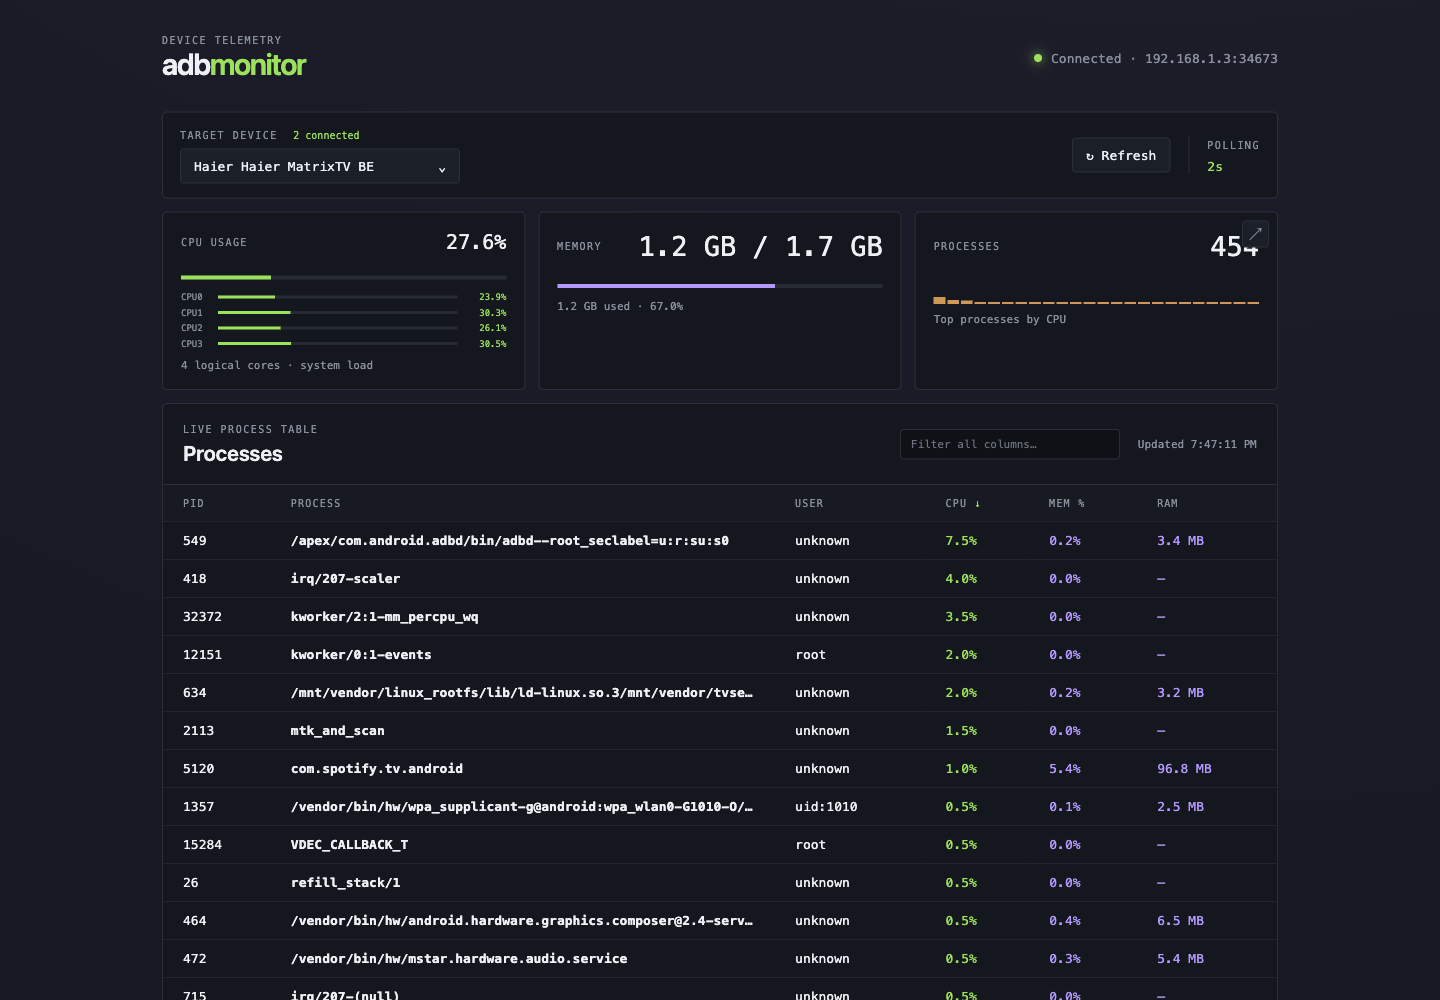
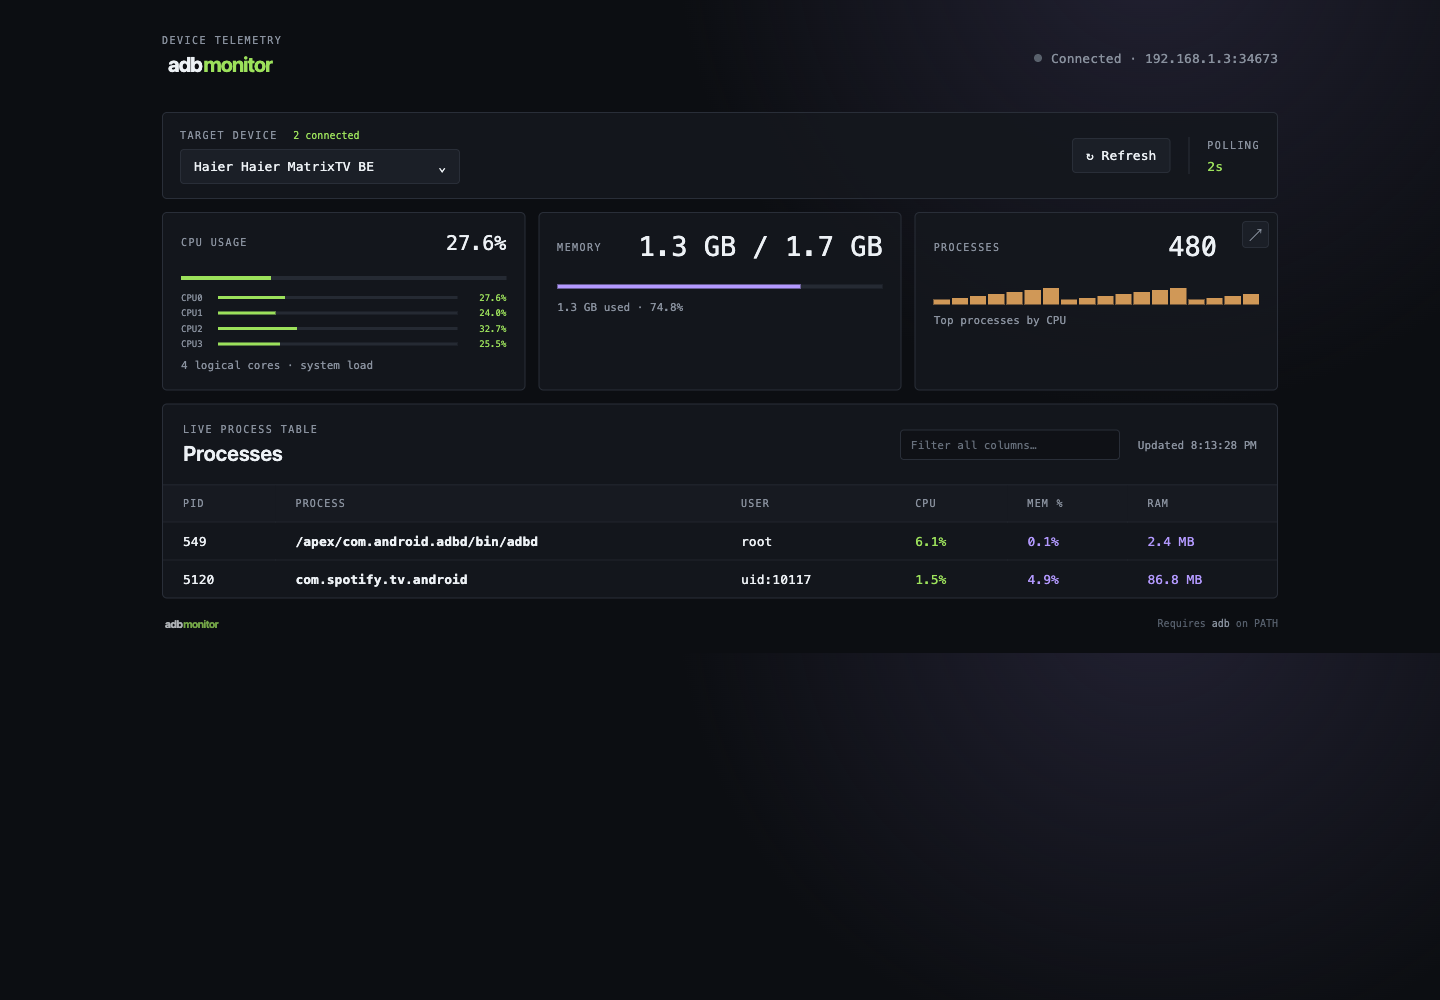
Prevent process count overlap

diff --git a/public/styles.css b/public/styles.css
@@ -3,7 +3,7 @@
 .topbar,.toolbar,.metric-head,.section-head,footer { display:flex; align-items:center; justify-content:space-between; } h1,h2,p { margin:0; } h2 { font:600 21px Inter,system-ui,sans-serif; margin-top:5px; }.brand-logo { display:block; width:180px; height:auto; }.footer-logo { display:block; width:92px; height:auto; opacity:.72; }.eyebrow,label { color:var(--muted); font-size:10px; letter-spacing:1.5px; }.connection { color:var(--muted); display:flex; align-items:center; gap:9px; }.dot { width:8px;height:8px;border-radius:50%;background:var(--green); box-shadow:0 0 12px var(--green); }.dot.idle { background:#59616c; box-shadow:none; }.dot.error { background:#ff6b6b; box-shadow:0 0 12px #ff6b6b; }
 .toolbar label span { margin-left:8px; color:var(--green); letter-spacing:0; }
 .panel { border:1px solid var(--line); background:rgba(20,23,29,.9); border-radius:5px; }.toolbar { margin-top:30px; padding:14px 17px; gap:18px; justify-content:flex-start; }.toolbar select { display:block; min-width:260px; margin-top:7px; border:0; color:var(--text); background:transparent; font:inherit; outline:0; }.toolbar button { margin-left:auto; padding:9px 13px; border:1px solid var(--line); border-radius:4px; color:var(--text); background:#1b1f27; font:inherit; cursor:pointer; }.toolbar button:hover { border-color:var(--green); color:var(--green); }.interval { border-left:1px solid var(--line); padding-left:18px; color:var(--green); }.interval span { display:block; margin-top:7px; }
-.metric-grid { display:grid; grid-template-columns:repeat(3,1fr); gap:13px; margin-top:13px; }.metric { padding:18px; min-height:130px; }.metric-head span { color:var(--muted); font-size:10px; letter-spacing:1.4px; }.metric-head b { font:500 27px ui-monospace,monospace; }.metric:nth-child(2) .metric-head b { font-size:20px; }.meter { height:4px; background:#252a33; margin:22px 0 12px; overflow:hidden; }.meter i { display:block; width:0; height:100%; background:var(--green); transition:width .3s; }.meter.purple i { background:var(--purple); }.metric p { color:var(--muted); font-size:11px; }.process-spark { height:24px; display:flex; gap:2px; align-items:end; margin:18px 0 9px; }.process-spark i { flex:1; min-height:2px; background:var(--orange); opacity:.8; }
+.metric-grid { display:grid; grid-template-columns:repeat(3,1fr); gap:13px; margin-top:13px; }.metric { padding:18px; min-height:130px; }.metric-head span { color:var(--muted); font-size:10px; letter-spacing:1.4px; }.metric-head b { font:500 27px ui-monospace,monospace; }.metric:nth-child(2) .metric-head b { font-size:20px; }.metric-grid .metric:last-child .metric-head b { margin-right:42px; }.meter { height:4px; background:#252a33; margin:22px 0 12px; overflow:hidden; }.meter i { display:block; width:0; height:100%; background:var(--green); transition:width .3s; }.meter.purple i { background:var(--purple); }.metric p { color:var(--muted); font-size:11px; }.process-spark { height:24px; display:flex; gap:2px; align-items:end; margin:18px 0 9px; }.process-spark i { flex:1; min-height:2px; background:var(--orange); opacity:.8; }
 .core-list { display:grid; gap:5px; margin:12px 0 10px; }.core-row { display:grid; grid-template-columns:30px 1fr 42px; align-items:center; gap:7px; color:var(--muted); font-size:9px; }.core-row i { height:3px; background:#252a33; overflow:hidden; }.core-row i b { display:block; height:100%; background:var(--green); transition:width .3s; }.core-row em { color:var(--green); font-style:normal; text-align:right; }
 .process-panel { margin-top:13px; overflow:hidden; }.section-head { padding:19px 20px; border-bottom:1px solid var(--line); }.section-head > span,.table-tools > span { color:var(--muted); font-size:11px; }.table-tools { display:flex; align-items:center; gap:18px; }.table-tools input { width:220px; padding:8px 10px; border:1px solid var(--line); border-radius:4px; outline:0; color:var(--text); background:#0f1116; font:11px ui-monospace,monospace; }.table-tools input:focus { border-color:var(--green); }.table-tools input::placeholder { color:#68717d; }.table-wrap { overflow-x:auto; } table { width:100%; border-collapse:collapse; text-align:left; } th { color:var(--muted); font-size:10px; letter-spacing:1.2px; font-weight:400; padding:12px 20px; background:#171a21; } th.sortable { cursor:pointer; user-select:none; } th.sortable:hover, th.sortable span { color:var(--green); } td { padding:11px 20px; border-top:1px solid #20242c; white-space:nowrap; } tbody tr:hover { background:#1a1e26; } td:nth-child(2) { color:var(--text); font-weight:600; max-width:370px; overflow:hidden; text-overflow:ellipsis; } td:nth-child(4) { color:var(--green); } td:nth-child(5),td:nth-child(6) { color:var(--purple); }.empty { color:var(--muted); text-align:center; padding:35px; } footer { margin-top:16px; color:#565f6c; font-size:10px; } code { color:#87909d; }
 .process-row { cursor:pointer; }.process-row:focus { outline:1px solid var(--green); outline-offset:-1px; }.detail-modal { position:fixed; inset:0; z-index:10; display:grid; place-items:center; padding:24px; background:rgba(5,7,10,.78); }.detail-modal[hidden] { display:none; }.detail-card { width:min(760px,100%); max-height:calc(100vh - 48px); overflow:auto; box-shadow:0 24px 80px #0008; }.detail-head { display:flex; align-items:flex-start; justify-content:space-between; padding:22px 24px; border-bottom:1px solid var(--line); }.detail-subtitle { color:var(--muted); margin-top:7px; font-size:11px; }.close-button { border:0; background:transparent; color:var(--muted); font-size:28px; line-height:20px; cursor:pointer; }.close-button:hover { color:var(--text); }.detail-grid { display:grid; grid-template-columns:repeat(4,1fr); gap:1px; background:var(--line); border-bottom:1px solid var(--line); }.detail-stat { padding:18px 20px; background:var(--panel); }.detail-stat span,h3 { color:var(--muted); font-size:10px; letter-spacing:1.2px; }.detail-stat b { display:block; margin-top:8px; font-size:19px; font-weight:500; }.detail-sections { display:grid; grid-template-columns:1fr 1fr; gap:28px; padding:22px 24px 26px; }.detail-sections h3 { margin:0 0 14px; font-weight:400; }.detail-sections dl { display:grid; grid-template-columns:110px 1fr; gap:11px 12px; margin:0; font-size:11px; }.detail-sections dt { color:var(--muted); }.detail-sections dd { margin:0; color:var(--text); overflow-wrap:anywhere; }.detail-error { padding:24px; color:#ff8d8d; }.detail-info { padding:24px; color:var(--orange); }
